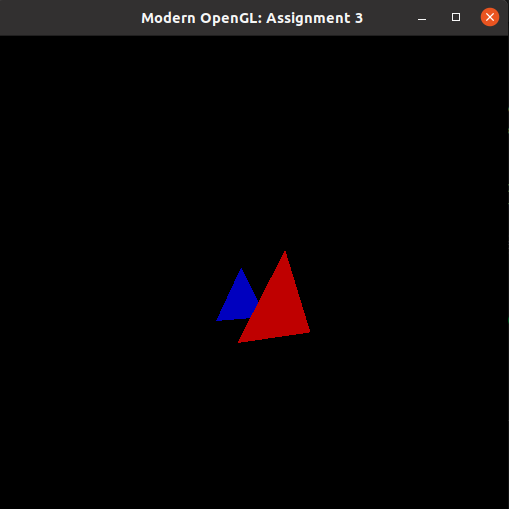
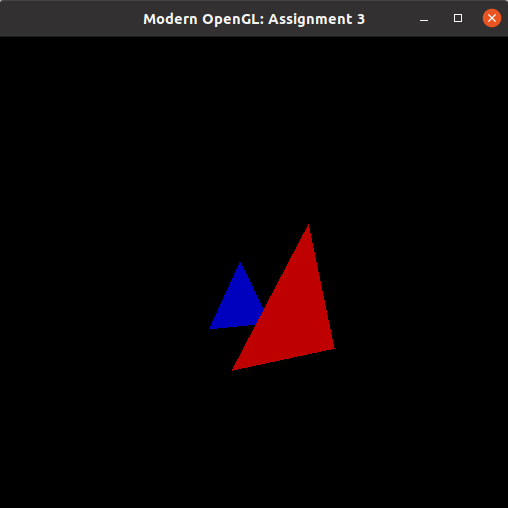
Retificando questao 3 e 4 no README

diff --git a/Atividade_03/README.md b/Atividade_03/README.md
@@ -48,7 +48,7 @@ Para este exercício foi requisitado alterar a matriz projeção (proj_array) ba
     float proj_array[16] = {1.0f, 0.0f, 0.0f, 0.0f, 
                             0.0f, 1.0f, 0.0f, 0.0f, 
                             0.0f, 0.0f, 1.0f,-1.0f/d, 
-                            0.0f, 0.0f,   d , 1.0f};
+                            0.0f, 0.0f,   d , 0.0f};
 
     glm::mat4 proj_mat = glm::make_mat4(proj_array);
 ```
